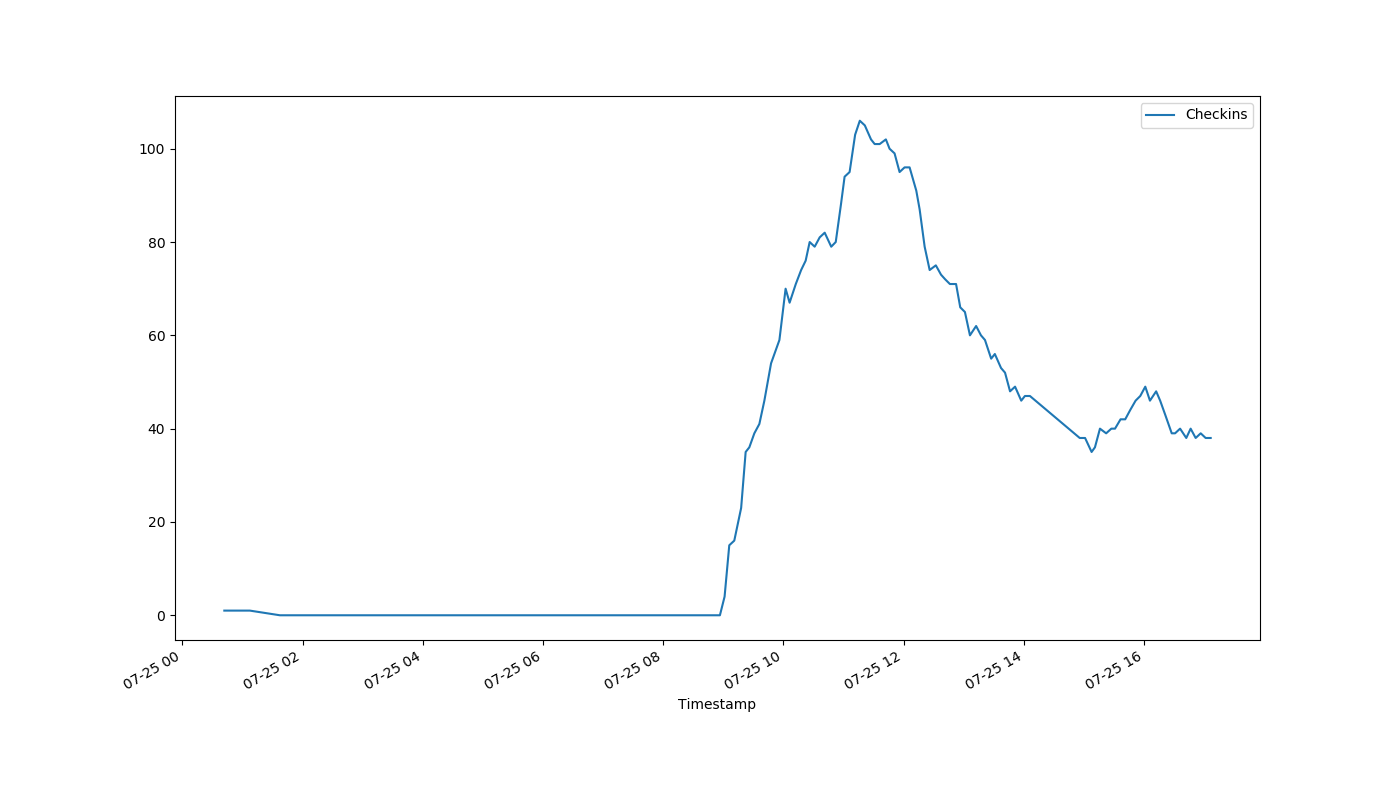
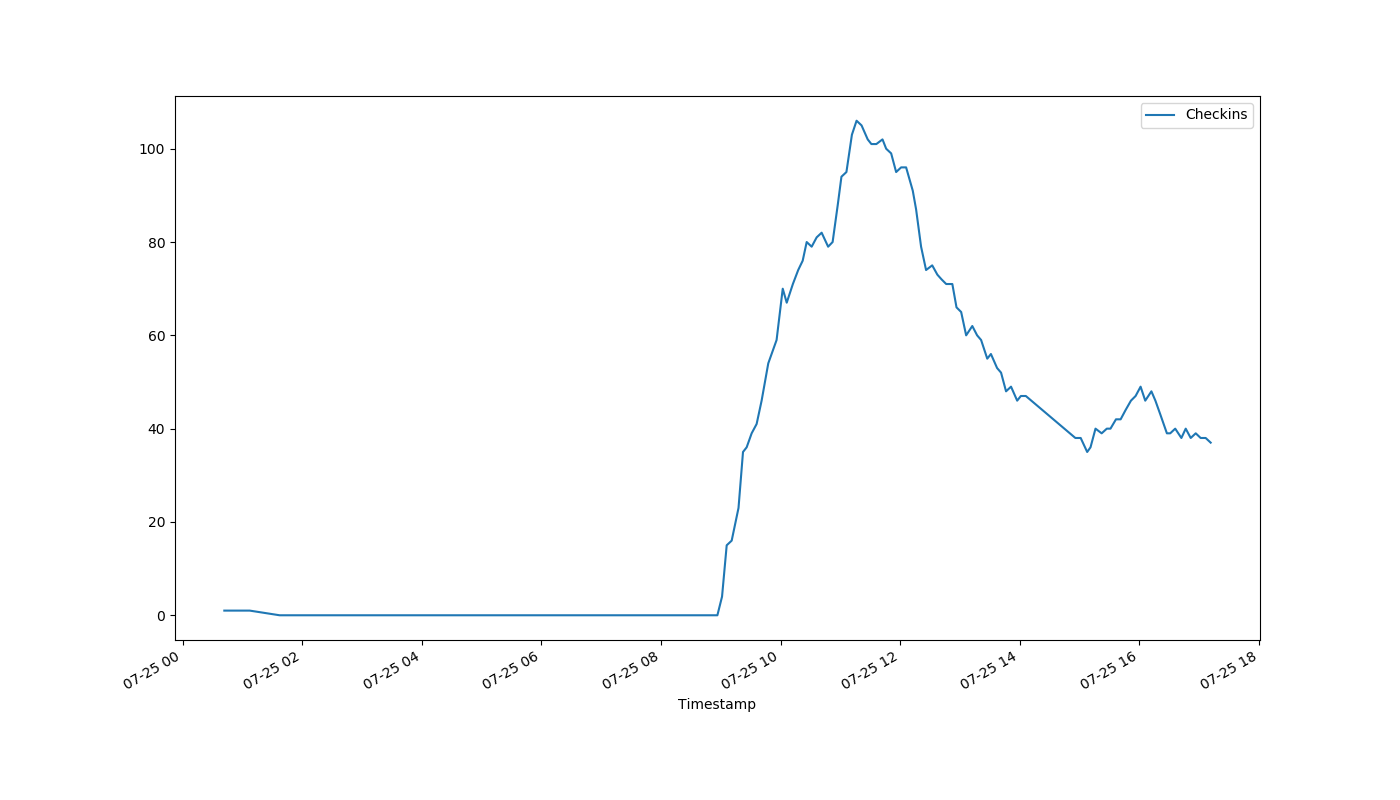
auto-Jul-25-17:12:27

diff --git a/index.html b/index.html
@@ -1,1 +1,1 @@
-<!DOCTYPE html><html><head><meta http-equiv="refresh" content="30"><link rel='stylesheet' href='holmcurrent.css'></head><body><p id='count'>38</p><div id='graph-wrap'><img id='graph' src='holmgraph-Jul-25.png'></div><p id='updated'>Last updated 17:07:10 / 17:06:37</p></body></html>
+<!DOCTYPE html><html><head><meta http-equiv="refresh" content="30"><link rel='stylesheet' href='holmcurrent.css'></head><body><p id='count'>37</p><div id='graph-wrap'><img id='graph' src='holmgraph-Jul-25.png'></div><p id='updated'>Last updated 17:12:11 / 17:11:40</p></body></html>
